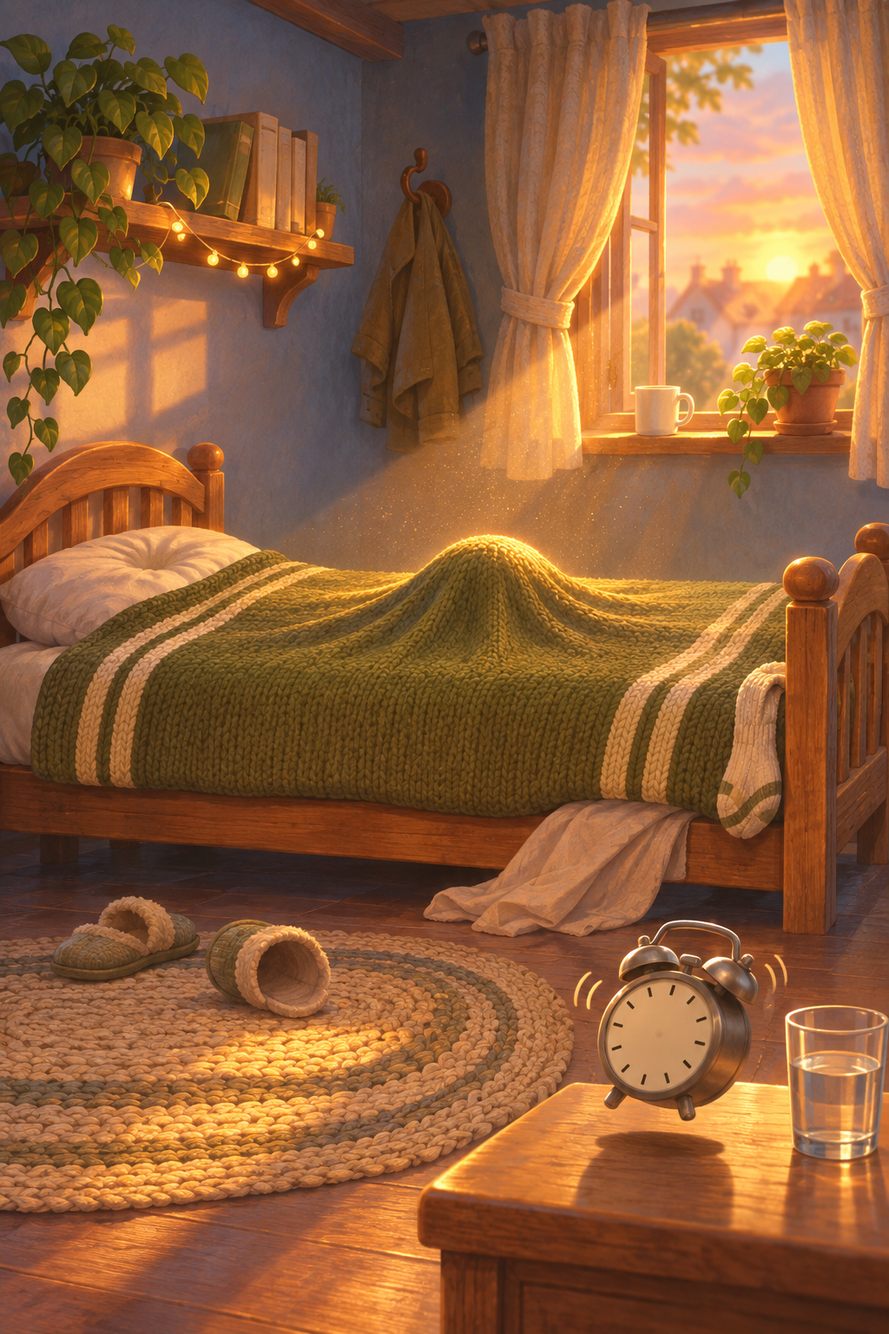
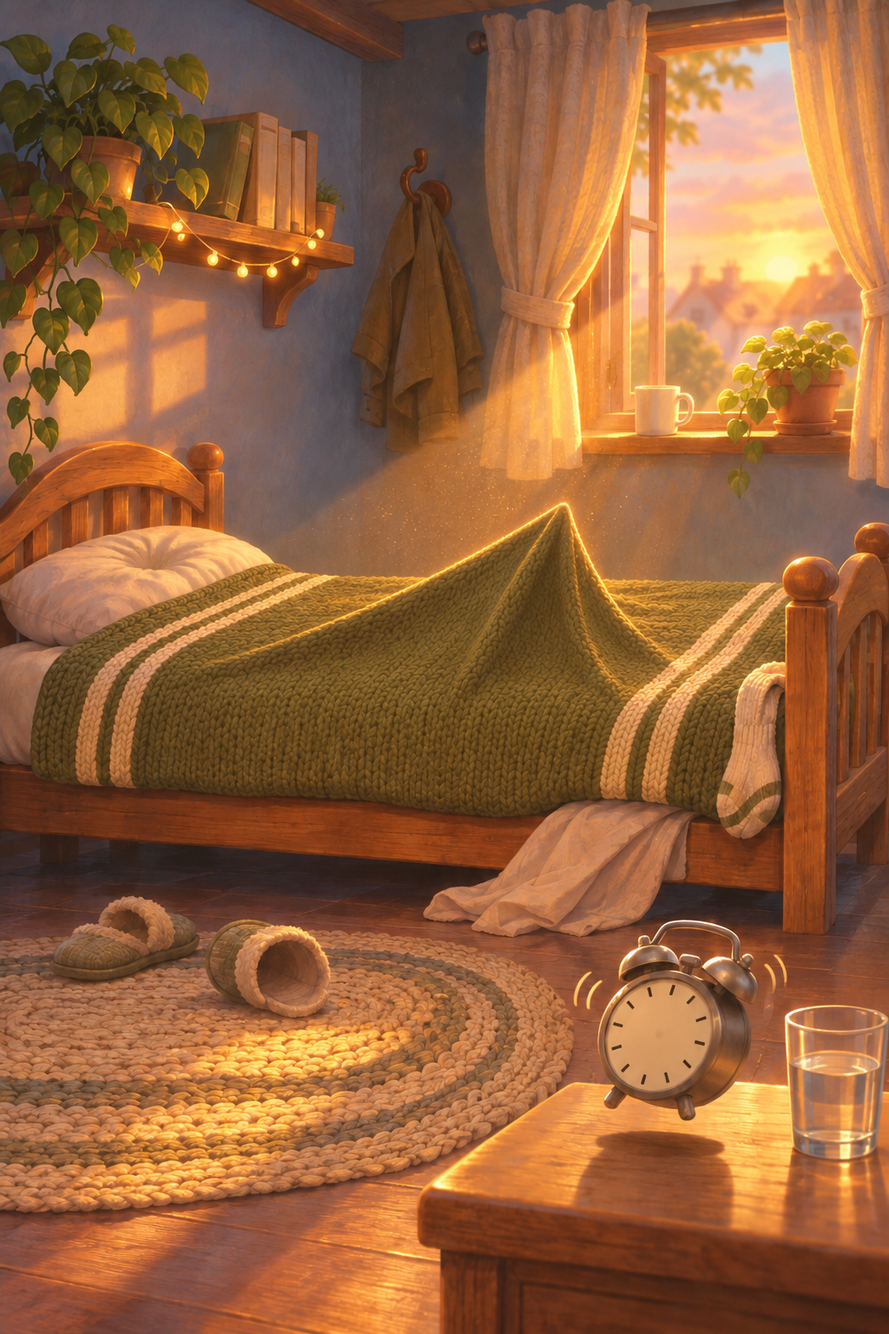
morning-wood: sharper tent bed painting, re-cut duvet, Doug placement
Claude-Session: https://claude.ai/code/session_01HD3jrKsXobS8b9SrtDG3CR

diff --git a/videos/morning-wood/scene.js b/videos/morning-wood/scene.js
@@ -1,5 +1,5 @@
 // GENERATED by tools/make-scene.js from beats.json: do not edit by hand (edit beats.json and re-run).
-window.BEATS = {"slug":"morning-wood","title":"Why do men wake up with morning wood?","searchPhrase":"why do men wake up with morning wood","banner":"THE HECK?","captionChunk":3,"tail":1,"lights":{"night":{"key":[16761466,1.7,[10,5,4]],"hemi":[8161504,4864602,0.95],"front":[11580671,0.75],"shadow":[1052730,0.42]},"morning":{"key":[16769200,2.2,[-10,6,4]],"hemi":[16772300,9067088,0.95],"front":[16774368,0.9],"shadow":[5909050,0.4]}},"plates":{"M00":{"img":"M00_bed_morning_tent.png","hz":0.45,"camH":1.6,"light":"morning"},"M01":{"img":"M01_dream_sky_night.png","hz":0.5,"light":"night"},"M02":{"img":"M02_sleep_lab_1972.png","hz":0.45,"light":"interior"},"M03":{"img":"M03_toddler_room.png","hz":0.45,"light":"night"},"M04":{"img":"M04_hose_clamped_day.png","hz":0.45,"light":"day"},"M05":{"img":"M05_hose_open_night.png","hz":0.45,"light":"night"},"M06":{"img":"M06_five_moons_night.png","hz":0.5,"light":"night"},"M07":{"img":"M07_clinic_desk_1980.png","hz":0.45,"light":"interior"},"M08":{"img":"M08_garage_tuneup_night.png","hz":0.45,"light":"interior"},"E":{"img":"E01_city_sunset_ending.png","camH":2,"light":"sunset"}},"props":{"P01":"P01_stamp_ring_whole.cut.png","P02":"P02_stamp_ring_torn.cut.png","DUVET":"M00_duvet.cut.png"},"cast":{"doug":{"outfit":"hoodie"}},"shots":[{"at":"hook","plate":"M00","zoom":[5,1.3],"focus":[[0.55,0.43],[0.5,0.45]]},{"at":"hook+0.55","plate":"M00","zoom":[1.3,1.5],"focus":[[0.5,0.45],[0.4,0.45]]},{"at":"card","plate":"M00","zoom":[1.5,1.75],"focus":[[0.4,0.45],[0.3,0.46]]},{"at":"kept","plate":"M00","zoom":[1.75,1.4],"focus":[[0.3,0.46],[0.42,0.46]]},{"at":"belief","plate":"M01","zoom":[1,1.35],"focus":[[0.5,0.55],[0.5,0.45]]},{"at":"bet","plate":"M01","zoom":[1.35,1.15],"focus":[[0.5,0.45],[0.55,0.5]]},{"at":"tested","plate":"M02","zoom":[1,1.4],"focus":[[0.5,0.55],[0.45,0.5]]},{"at":"watch","plate":"M02","zoom":[1.4,1.7],"focus":[[0.45,0.5],[0.35,0.62]]},{"at":"age","plate":"M03","zoom":[1,1.35],"focus":[[0.5,0.55],[0.55,0.6]]},{"at":"notdream","plate":"M03","zoom":[1.35,1.1],"focus":[[0.55,0.6],[0.5,0.5]]},{"at":"rehook","plate":"M04","zoom":[1,1.2],"focus":[[0.5,0.5],[0.5,0.46]]},{"at":"idea","plate":"M04","zoom":[1.2,1.4],"focus":[[0.5,0.46],[0.45,0.47]]},{"at":"hose","plate":"M04","zoom":[1.4,1.7],"focus":[[0.45,0.47],[0.4,0.47]]},{"at":"rem","plate":"M05","zoom":[1,1.3],"focus":[[0.5,0.5],[0.45,0.5]]},{"at":"nodis","plate":"M05","zoom":[1.3,1.1],"focus":[[0.45,0.5],[0.5,0.5]]},{"at":"count","plate":"M06","zoom":[1,1.5],"focus":[[0.5,0.45],[0.5,0.5]]},{"at":"people","plate":"M02","zoom":[1.1,1.6],"focus":[[0.5,0.5],[0.65,0.55]]},{"at":"fits","plate":"M02","zoom":[1.6,1.2],"focus":[[0.65,0.55],[0.5,0.5]]},{"at":"stamps","plate":"M07","zoom":[1,1.5],"focus":[[0.5,0.6],[0.5,0.6]]},{"at":"torn","plate":"M07","zoom":[1.5,1.9],"focus":[[0.5,0.6],[0.5,0.62]]},{"at":"results","plate":"M07","zoom":[1.9,1.2],"focus":[[0.5,0.62],[0.5,0.5]]},{"at":"oxy","plate":"M08","zoom":[1,1.5],"focus":[[0.5,0.5],[0.5,0.55]]},{"at":"mirror","plate":"M05","zoom":[1.1,1.4],"focus":[[0.5,0.5],[0.5,0.55]]},{"at":"best","plate":"M05","zoom":[1.4,1.15],"focus":[[0.5,0.55],[0.5,0.45]]},{"at":"doug","plate":"E","zoom":[1.04,1.12],"focus":[[0.5,0.53],[0.5,0.5]]},{"at":"diy","plate":"E","zoom":[1.12,1.2],"focus":[[0.5,0.5],[0.5,0.48]]},{"at":"cta","plate":"E","zoom":[1.2,1.3],"focus":[[0.5,0.48],[0.5,0.47]]}],"shakes":[["hook+0.3",0.45,0.7]],"flashes":[["hook+0.28",0.22,0.7]],"actors":[{"who":"doug","from":"hook","to":"belief","placement":{"type":"lying","ix":800,"iy":1040,"dx":-0.45,"dz":-0.9,"y":1.05,"ry":0,"sc":1.3,"tilt":-0.34},"idle":{"face":"flat","look":-0.3},"events":[{"do":"face","at":"hook","to":"card","face":"surprised"},{"do":"face","at":"kept","to":"belief","face":"worried"}]},{"who":"doug","from":"doug","placement":{"type":"stand","ix":520,"iy":1270,"ry":0.2},"idle":{"face":"smile"},"events":[{"do":"lookUp","at":"probably","dur":4},{"do":"gesture","at":"cta","to":"cta+3","gesture":"point"}]}],"helicopter":{"at":"probably","y":360,"w":520,"dur":4.2},"overlays":[{"type":"title","at":"hook","to":"card+1.2","lines":[{"text":"WHY DO MEN WAKE UP WITH","size":64,"y":250},{"text":"MORNING WOOD?","size":120,"color":"gold","y":370}]},{"type":"text","at":"card+1.2","to":"kept","text":"DOUG'S PROBLEM","size":96,"color":"gold"},{"type":"text","at":"card","to":"belief","text":"⬇ MORNING WOOD","size":90,"color":"red","y":520,"rot":-0.03},{"type":"text","at":"kept","to":"belief","text":"WORRIED","size":100,"color":"gold"},{"type":"text","at":"belief","to":"bet","text":"A SEXY DREAM?","size":110,"color":"red"},{"type":"text","at":"belief+1.6","to":"bet","text":"MOST PEOPLE SAY","size":62,"color":"gold","y":430},{"type":"text","at":"bet","to":"tested","text":"\"I BELIEVED IT TOO\"","size":70},{"type":"text","at":"tested","to":"watch","text":"1972","size":150,"color":"gold","y":290},{"type":"text","at":"watch","to":"age","text":"BOYS + SENSORS","size":90,"color":"gold"},{"type":"text","at":"age","to":"notdream","text":"AGE","size":90,"color":"gold","y":300},{"type":"counter","at":"age","to":"notdream","dur":1.2,"format":"{n} YEARS OLD","size":120,"color":"gold","start":0,"value":3},{"type":"text","at":"notdream","to":"rehook","text":"✖ NOT THE DREAM","size":90,"color":"red","y":430},{"type":"text","at":"rehook","to":"idea","text":"THEN WHAT?","size":130,"color":"gold"},{"type":"text","at":"idea","to":"hose","text":"THE CLAMP","size":130,"color":"gold"},{"type":"flow","at":"hose","to":"rem","rows":[[150,640,400,735],[160,700,400,750]],"color":"cool","width":13,"a":0.3},{"type":"text","at":"hose","to":"rem","text":"CLAMP SHUT = NO BLOOD","size":70,"color":"red","y":430},{"type":"text","at":"rem","to":"nodis","text":"REM SLEEP","size":130,"color":"gold"},{"type":"flow","at":"rem","to":"nodis","rows":[[140,640,420,745],[420,760,850,755],[500,770,830,770]],"color":"cool","width":13},{"type":"text","at":"rem+1.8","to":"nodis","text":"CLAMP OPEN = FILLS","size":70,"color":"gold","y":430},{"type":"text","at":"nodis","to":"count","text":"NOT PROVEN","size":90,"color":"red"},{"type":"counter","at":"count","to":"people","dur":1.8,"format":"{n} A NIGHT","size":120,"color":"gold","start":0,"value":5},{"type":"text","at":"count+1.2","to":"people","text":"THE LAST ONE: YOU CATCH","size":60,"color":"gold","y":430},{"type":"bar","at":"people","to":"fits","x":300,"y":700,"len":420,"label":"REM: ABOUT 30 MIN","keys":[[0,0.05],[1.2,1]],"color":"gold"},{"type":"bar","at":"people+1.6","to":"fits","x":300,"y":800,"len":420,"label":"NOT REM: ABOUT 12 MIN","keys":[[0,0.05],[1,0.4]],"color":"red"},{"type":"text","at":"fits","to":"stamps","text":"THAT FITS","size":110,"color":"gold"},{"type":"text","at":"stamps","to":"torn","text":"1980","size":150,"color":"gold","y":290},{"type":"prop","at":"stamps","to":"torn","prop":"P01","pos":[512,880],"w":526,"pop":0.35},{"type":"prop","at":"torn","to":"oxy","prop":"P02","pos":[512,880],"w":473,"pop":0.3},{"type":"text","at":"torn","to":"results","text":"TORN = IT HAPPENED","size":80,"color":"gold","y":430},{"type":"counter","at":"results","to":"oxy","dur":1.4,"format":"{n} HEALTHY: TORN","size":80,"color":"gold","start":0,"value":22,"y":330},{"type":"text","at":"results+1.8","to":"oxy","text":"11 ✖ NOT TORN","size":90,"color":"red","y":430},{"type":"text","at":"oxy","to":"mirror","text":"BLOOD = OXYGEN","size":100,"color":"gold"},{"type":"text","at":"oxy+1.8","to":"mirror","text":"A NIGHTLY TUNE-UP?","size":70,"color":"gold","y":430},{"type":"text","at":"mirror","to":"best","text":"WHY?","size":140,"color":"gold"},{"type":"text","at":"best","to":"idk","text":"A CLAMP THAT OPENS","size":72,"color":"gold"},{"type":"text","at":"idk","to":"doug","text":"NOBODY'S SURE","size":110,"color":"red"},{"type":"text","at":"doug","to":"probably","text":"NOT A DREAM. NOT A FLAW.","size":70,"color":"gold"},{"type":"text","at":"diy","to":"cta","text":"ABOUT 4 TONIGHT","size":100,"color":"gold"},{"type":"text","at":"cta","to":"follow","text":"SEND THIS TO SOMEONE","size":80,"color":"gold"},{"type":"text","at":"follow","to":"follow+4","text":"FOLLOW","size":110,"color":"gold"},{"type":"prop","at":"hook","to":"belief","prop":"DUVET","pos":[470.5,781.5],"w":869,"pop":0.01},{"type":"text","at":"best","to":"idk","text":"IN REM SLEEP","size":90,"color":"gold","y":430},{"type":"text","at":"follow","to":"follow+4","text":"WATCH THE YAWN VIDEO NEXT","size":50,"color":"gold","y":430},{"type":"text","at":"hose+1.6","to":"rem","text":"A BRAIN CHEMICAL","size":70,"color":"white","y":520},{"type":"text","at":"stamps+2.0","to":"torn","text":"A RING OF 4 STAMPS","size":80,"color":"white","y":430}],"recurring":["THE GARDEN HOSE: a thick, bright leaf-green rubber hose with yellow brass fittings, coiled in a loose loop; THE CLAMP: a chunky silver steel pinch-clamp with a big red handle, clamped across the hose near the middle, identical in every image it appears in (the exact hose and clamp from M04_hose_clamped_day.png; in M05 the clamp is open, the hose is full and swollen with water)"],"images":[{"file":"M00_bed_morning_tent.png","kind":"background","idea":"the hook + Doug's problem: he wakes with a visible tent in the blanket","shot":"eye-level 3/4 view of ONE single bed seen from the side and slightly from the foot, the bed running from the left (pillow) to the right (foot), 35mm lens feel, horizon about 45% from the top, portrait 2:3.","place":"Doug's bedroom at sunrise, the same cozy world as the night bedroom but now in strong golden morning light: \"the morning after\". Funny, warm, a little embarrassing. The bed is EMPTY of people: the pillow is flat with a head-shaped dent, the duvet is pulled up as if someone were under it.","hero":"a thick olive-green duvet with two cream stripes (the same blanket as the green bed in the night bedroom) covering the whole bed up to the pillow, with ONE clear, rounded, cartoon TENT-shaped bump pushing up the duvet near the middle of the bed, about as big as a loaf of bread, with soft fabric folds radiating from it and a sunbeam hitting it. It is the clearly the biggest, brightest thing in the image. Cartoon, wholesome and silly, nothing explicit, no body shapes visible, only the bump in the blanket.","foreground":"the corner of a nightstand cropped at the bottom right with a round alarm clock ringing (little vibration lines and tick marks only, no numbers) and a glass of water.","midground":"the wooden bed frame with the flat pillow at the left, a rumpled sheet corner, a pair of slippers on the floor, a woven rug.","background":"a big window with open curtains and a golden sunrise over rooftops, a bookshelf with plants and string lights, a coat on a hook.","dressing":"dust motes in the sunbeams, a stack of books, a mug, a plant on the sill, wood floor with warm reflections.","story":"the alarm clock is jumping off the nightstand, a sock hanging off the bed corner, one slipper kicked over.","light":"strong golden sunrise from the window on the right, long warm shadows, cool blue shadows in the corners, glowing dust.","palette":"olive green and honey wood with one gold sunrise accent.","texture":"knit duvet weave with soft folds, wood grain, glass, brushed metal.","staging":"keep the bed lying flat and clear along the middle band so a character can lie on it, with the pillow at the left. Keep the band at 60-72% height calm. The bump is in the middle third of the bed length."},{"file":"M01_dream_sky_night.png","kind":"background","idea":"what most people say: a dream","shot":"low-angle wide view up at a dreamy night sky over rooftops, 24mm lens feel, horizon about 38% from the top, portrait 2:3.","place":"a surreal, cozy dream sky over a sleeping town at night: \"the dream everybody blames\". Soft, glowing, a little silly.","hero":"a huge heart-shaped cloud glowing pink and violet in the middle of the sky, with a ring of sparkles around it (pictogram only).","foreground":"chimney tops and a tiled roof edge cropped at the bottom corners with soft snow on them.","midground":"a flock of puffy cartoon clouds in pink and violet, floating stars, a crescent moon with a sleepy closed-eye curve, a hot-air balloon far away.","background":"a faraway town of tiny lit windows, a hill with a windmill, layers of blue haze.","dressing":"shooting stars, glowing dust, a few paper lanterns drifting up, wispy aurora ribbons.","story":"one lone slipper floating among the clouds, a tiny kite caught in a chimney.","light":"soft pink-violet glow from the heart cloud, cool moonlight rim on the clouds, deep blue night (never black).","palette":"deep indigo and violet with one pink-gold accent.","texture":"painterly cloud brushwork, paper grain, glowing gradients.","staging":"Keep the center clear for overlays and the band at 60-72% height calm."},{"file":"M02_sleep_lab_1972.png","kind":"background","idea":"the 1972 sleep study (reused for the evidence)","shot":"eye-level wide view into a 1970s sleep laboratory, 28mm lens feel, horizon about 45% from the top, portrait 2:3.","place":"a quiet 1970s university sleep laboratory at night, warm and nerdy: \"where they watched people sleep all night\". No one inside.","hero":"a single narrow bed with a plain white pillow and a crumpled blanket in the middle, with soft colored wires hanging from a little headboard box.","foreground":"the corner of a metal desk cropped at the bottom left with a mug, a notebook and a tangle of wires.","midground":"a tall chart recorder machine on a cart with a long loop of paper tape curling out covered in wavy ink lines (no numbers), two big reel-to-reel tape machines, a wall of dials and knobs.","background":"a big dark observation window with a green-tinted reflection, wood-paneled walls, a round wall clock (tick marks only), a poster of a plain brain outline.","dressing":"a thermos, a desk lamp, coiled cables, orange and brown 1970s curtains, a stool.","story":"a half-eaten sandwich on a plate, a paper cup with a pencil in it, a wall clock shaped like a crescent moon.","light":"warm orange from a desk lamp on the left, cool green glow from the monitors, colored shadows in blue.","palette":"1970s orange, brown and teal, with one gold accent.","texture":"wood paneling, brushed metal, paper tape, plastic dials.","staging":"Keep the center clear for overlays and the band at 60-72% height calm."},{"file":"M03_toddler_room.png","kind":"background","idea":"boys as young as three","shot":"eye-level wide view of a small child's bedroom at night, 28mm lens feel, horizon about 45% from the top, portrait 2:3.","place":"a tiny, cozy toddler bedroom at night: \"a three-year-old's room\". Warm and sweet.","hero":"a small low bed with a dinosaur blanket and a teddy bear on the pillow, in the middle of the room.","foreground":"the corner of a toy chest cropped at the bottom right with wooden blocks and a toy truck.","midground":"a rug with a road map pattern, a rocking horse, a bookshelf with big picture books, a stuffed giraffe.","background":"a night-light shaped like a moon on the wall, a window with stars, wallpaper with tiny rockets.","dressing":"a mobile of paper stars, crayon drawings (scribbles only), a stack of alphabet blocks (blank), a pair of tiny slippers.","story":"one block tower knocked over, a sippy cup on the nightstand.","light":"soft warm yellow from the moon night-light, cool blue from the window, colored shadows in purple.","palette":"warm cream and sky blue with one orange accent.","texture":"knit blanket weave, painted wood, felt, plush fur.","staging":"Keep the center clear for overlays and the band at 60-72% height calm."},{"file":"M04_hose_clamped_day.png","kind":"background","idea":"the best idea: a clamp on a hose (clamp SHUT)","shot":"eye-level wide view across a sunny backyard garden, 28mm lens feel, horizon about 45% from the top, portrait 2:3.","place":"a sunny backyard vegetable garden in the afternoon: \"a garden hose with a clamp on it\". Fresh and friendly.","hero":"a thick bright leaf-green garden hose running across the lawn from a brass tap, with a chunky silver pinch-clamp with a big red handle clamped tight across it in the middle; the hose on the tap side is swollen and the far side is flat and empty.","foreground":"tall tomato plants and a wooden fence post cropped at the left, a watering can at the bottom right.","midground":"a vegetable bed with cabbages and sunflowers, a wheelbarrow, a coiled spare hose, a brass tap on a brick wall.","background":"a wooden fence, a little shed, tall trees, a blue sky with soft clouds.","dressing":"garden gloves, a trowel, a straw hat on a post, a bucket.","story":"one wilting plant at the far end of the hose (to show nothing is flowing), a dewdrop on the clamp handle.","light":"strong warm sun from the upper left, long soft shadows, bright green and gold, colored shadows in blue-violet.","palette":"leaf green and sky blue with one red accent (the clamp handle).","texture":"rubber, brass, wood grain, leaf veins, brick.","staging":"Keep the center clear for overlays and the band at 60-72% height calm."},{"file":"M05_hose_open_night.png","kind":"background","idea":"the clamp OPENS in REM sleep (same garden at night)","shot":"same camera angle as M04_hose_clamped_day.png, the same backyard garden at NIGHT, portrait 2:3.","place":"the exact same garden as M04 at night under a huge glowing moon: \"the clamp opens\". Dreamy, magical.","hero":"the exact hose and the exact silver clamp with the red handle from M04_hose_clamped_day.png, but the clamp is now OPEN and swung to the side; the whole hose is full and swollen with water and gently glowing, sparkles of water jumping along it.","foreground":"the same tomato plants and fence post at the left, the same watering can at the bottom right, now silvery in the moonlight.","midground":"the same vegetable bed with the plants now perked up and fresh, the same wheelbarrow, the same brass tap.","background":"a giant moon, glowing dust, a night sky with a swirl of stars and a faint ring of REM-style swirls (pictogram only), the same shed and trees in deep blue.","dressing":"glowing dew drops, drifting glowing dust motes, a stone birdbath, moonlit mist.","story":"the far-end plant is now standing up straight and green, a glowing dewdrop on the open clamp handle.","light":"cool silver-blue moonlight from the upper right, warm glow from the water in the hose, colored shadows in violet.","palette":"deep blue and silver with one warm gold accent (the glowing water).","texture":"rubber, brass, wet leaves, moonlit mist.","staging":"Keep the center clear for overlays and the band at 60-72% height calm."},{"file":"M06_five_moons_night.png","kind":"background","idea":"three to five times a night","shot":"low-angle wide view of a night sky, 24mm lens feel, horizon about 30% from the top, portrait 2:3.","place":"a quiet night sky over a sleeping bedroom window ledge: \"a whole night, with five goes\". Calm and a little funny.","hero":"five glowing round moons hanging in a row across the sky like lanterns on a string, evenly spaced from left to right, the fifth one a little brighter, near a faint orange glow of dawn on the horizon.","foreground":"a window ledge with a blue curtain cropped at the bottom left and a sleeping potted cactus.","midground":"a long string of fairy lights holding the five moons, soft clouds, a few stars, a calm lake below reflecting the moons.","background":"a faraway hill with a tiny house, layers of blue haze, a hint of sunrise on the far edge.","dressing":"sparkles, a drifting paper plane, a bare tree branch with a hanging lantern.","story":"the fifth moon has a tiny alarm bell hanging from it.","light":"cool silver moonlight, a warm orange line of dawn at the horizon, colored shadows in violet.","palette":"deep navy and silver with one orange dawn accent.","texture":"painterly sky, glowing gradients, soft grain.","staging":"Keep the center clear for overlays and the band at 60-72% height calm."},{"file":"M07_clinic_desk_1980.png","kind":"background","idea":"the 1980 postage stamp test","shot":"high-angle view down at a doctor's desk, 35mm lens feel, portrait 2:3.","place":"a 1980 doctor's clinic desk in the morning: \"a very strange test\". Warm, retro, nerdy. No one present.","hero":"a clear open space in the middle of a wooden desk with a green blotter where small objects will be placed, with a roll of postage stamps and a pair of scissors lying beside it (blank stamps with simple pictogram flowers, no numbers).","foreground":"a stack of folders and a brass desk lamp cropped at the top left, a coffee mug at the bottom right.","midground":"a typewriter, a rolodex, a framed diploma (blank), a retro telephone with a curly cord.","background":"wood-paneled wall, a window with venetian blinds and morning light, a plant.","dressing":"paper clips, a stapler, a pencil cup, a tidy desk, sticky notes (blank).","story":"a sticky note with a simple pictogram star, a half-solved crossword (no letters).","light":"warm golden morning light through the blinds from the right, colored shadows in teal.","palette":"1980 mustard, brown and teal, with one gold accent.","texture":"wood grain, paper, brass, felt blotter.","staging":"Keep the center clear for overlays and the band at 60-72% height calm."},{"file":"M08_garage_tuneup_night.png","kind":"background","idea":"a nightly tune-up (blood carries oxygen)","shot":"eye-level wide view into a cozy garage workshop at night, 28mm lens feel, horizon about 45% from the top, portrait 2:3.","place":"a friendly old garage at night where a car is getting its tune-up: \"a nightly tune-up\". Warm, busy, nobody there.","hero":"a round, cartoon-shaped vintage car with its hood open, up on a car lift, glowing warm from inside the engine, with sparkles of gold bubbles floating up from the engine.","foreground":"a rolling tool chest cropped at the bottom left with wrenches and an oil can.","midground":"a workbench with tools on a pegboard, a tire stack, a rolling creeper, a parts shelf, a little radio.","background":"garage doors with night-blue windows, a wall calendar (blank), a neon sign in the window with the exact words \"TUNE-UP\" (the only text in the image).","dressing":"a hanging shop light, oil stains, tools silhouettes on the pegboard outline, a coffee thermos.","story":"a rubber duck on the dashboard, a tiny plant growing on the workbench.","light":"warm orange from the shop lights, cool blue from the doors, gold sparkles glowing, colored shadows in blue.","palette":"warm orange and navy with one gold accent.","texture":"metal, rubber, grease, brushed steel, pegboard.","staging":"Keep the center clear for overlays and the band at 60-72% height calm."},{"file":"P01_stamp_ring_whole.png","kind":"prop","idea":"the stamp ring, intact","brief":"A strip of four connected postage stamps with perforated edges, bent into a ring (a closed loop) standing on its end, each stamp showing a simple pictogram flower, no text, no numbers."},{"file":"P02_stamp_ring_torn.png","kind":"prop","idea":"the stamp ring, torn","brief":"The same strip of four postage stamps with perforated edges as a ring, but now torn apart between the second and third stamp, the two pieces lying a little apart with ragged torn edges, each stamp showing a simple pictogram flower, no text, no numbers."}]};
+window.BEATS = {"slug":"morning-wood","title":"Why do men wake up with morning wood?","searchPhrase":"why do men wake up with morning wood","banner":"THE HECK?","captionChunk":3,"tail":1,"lights":{"night":{"key":[16761466,1.7,[10,5,4]],"hemi":[8161504,4864602,0.95],"front":[11580671,0.75],"shadow":[1052730,0.42]},"morning":{"key":[16769200,2.2,[-10,6,4]],"hemi":[16772300,9067088,0.95],"front":[16774368,0.9],"shadow":[5909050,0.4]}},"plates":{"M00":{"img":"M00_bed_morning_tent.png","hz":0.45,"camH":1.6,"light":"morning"},"M01":{"img":"M01_dream_sky_night.png","hz":0.5,"light":"night"},"M02":{"img":"M02_sleep_lab_1972.png","hz":0.45,"light":"interior"},"M03":{"img":"M03_toddler_room.png","hz":0.45,"light":"night"},"M04":{"img":"M04_hose_clamped_day.png","hz":0.45,"light":"day"},"M05":{"img":"M05_hose_open_night.png","hz":0.45,"light":"night"},"M06":{"img":"M06_five_moons_night.png","hz":0.5,"light":"night"},"M07":{"img":"M07_clinic_desk_1980.png","hz":0.45,"light":"interior"},"M08":{"img":"M08_garage_tuneup_night.png","hz":0.45,"light":"interior"},"E":{"img":"E01_city_sunset_ending.png","camH":2,"light":"sunset"}},"props":{"P01":"P01_stamp_ring_whole.cut.png","P02":"P02_stamp_ring_torn.cut.png","DUVET":"M00_duvet.cut.png"},"cast":{"doug":{"outfit":"hoodie"}},"shots":[{"at":"hook","plate":"M00","zoom":[5,1.3],"focus":[[0.62,0.4],[0.5,0.45]]},{"at":"hook+0.55","plate":"M00","zoom":[1.3,1.5],"focus":[[0.5,0.45],[0.4,0.45]]},{"at":"card","plate":"M00","zoom":[1.5,1.75],"focus":[[0.4,0.45],[0.3,0.46]]},{"at":"kept","plate":"M00","zoom":[1.75,1.4],"focus":[[0.3,0.46],[0.42,0.46]]},{"at":"belief","plate":"M01","zoom":[1,1.35],"focus":[[0.5,0.55],[0.5,0.45]]},{"at":"bet","plate":"M01","zoom":[1.35,1.15],"focus":[[0.5,0.45],[0.55,0.5]]},{"at":"tested","plate":"M02","zoom":[1,1.4],"focus":[[0.5,0.55],[0.45,0.5]]},{"at":"watch","plate":"M02","zoom":[1.4,1.7],"focus":[[0.45,0.5],[0.35,0.62]]},{"at":"age","plate":"M03","zoom":[1,1.35],"focus":[[0.5,0.55],[0.55,0.6]]},{"at":"notdream","plate":"M03","zoom":[1.35,1.1],"focus":[[0.55,0.6],[0.5,0.5]]},{"at":"rehook","plate":"M04","zoom":[1,1.2],"focus":[[0.5,0.5],[0.5,0.46]]},{"at":"idea","plate":"M04","zoom":[1.2,1.4],"focus":[[0.5,0.46],[0.45,0.47]]},{"at":"hose","plate":"M04","zoom":[1.4,1.7],"focus":[[0.45,0.47],[0.4,0.47]]},{"at":"rem","plate":"M05","zoom":[1,1.3],"focus":[[0.5,0.5],[0.45,0.5]]},{"at":"nodis","plate":"M05","zoom":[1.3,1.1],"focus":[[0.45,0.5],[0.5,0.5]]},{"at":"count","plate":"M06","zoom":[1,1.5],"focus":[[0.5,0.45],[0.5,0.5]]},{"at":"people","plate":"M02","zoom":[1.1,1.6],"focus":[[0.5,0.5],[0.65,0.55]]},{"at":"fits","plate":"M02","zoom":[1.6,1.2],"focus":[[0.65,0.55],[0.5,0.5]]},{"at":"stamps","plate":"M07","zoom":[1,1.5],"focus":[[0.5,0.6],[0.5,0.6]]},{"at":"torn","plate":"M07","zoom":[1.5,1.9],"focus":[[0.5,0.6],[0.5,0.62]]},{"at":"results","plate":"M07","zoom":[1.9,1.2],"focus":[[0.5,0.62],[0.5,0.5]]},{"at":"oxy","plate":"M08","zoom":[1,1.5],"focus":[[0.5,0.5],[0.5,0.55]]},{"at":"mirror","plate":"M05","zoom":[1.1,1.4],"focus":[[0.5,0.5],[0.5,0.55]]},{"at":"best","plate":"M05","zoom":[1.4,1.15],"focus":[[0.5,0.55],[0.5,0.45]]},{"at":"doug","plate":"E","zoom":[1.04,1.12],"focus":[[0.5,0.53],[0.5,0.5]]},{"at":"diy","plate":"E","zoom":[1.12,1.2],"focus":[[0.5,0.5],[0.5,0.48]]},{"at":"cta","plate":"E","zoom":[1.2,1.3],"focus":[[0.5,0.48],[0.5,0.47]]}],"shakes":[["hook+0.3",0.45,0.7]],"flashes":[["hook+0.28",0.22,0.7]],"actors":[{"who":"doug","from":"hook","to":"belief","placement":{"type":"lying","ix":800,"iy":1040,"dx":-0.45,"dz":-0.9,"y":1,"ry":0,"sc":1.3,"tilt":-0.4},"idle":{"face":"flat","look":-0.3},"events":[{"do":"face","at":"hook","to":"card","face":"surprised"},{"do":"face","at":"kept","to":"belief","face":"worried"}]},{"who":"doug","from":"doug","placement":{"type":"stand","ix":520,"iy":1270,"ry":0.2},"idle":{"face":"smile"},"events":[{"do":"lookUp","at":"probably","dur":4},{"do":"gesture","at":"cta","to":"cta+3","gesture":"point"}]}],"helicopter":{"at":"probably","y":360,"w":520,"dur":4.2},"overlays":[{"type":"title","at":"hook","to":"card+1.2","lines":[{"text":"WHY DO MEN WAKE UP WITH","size":64,"y":250},{"text":"MORNING WOOD?","size":120,"color":"gold","y":370}]},{"type":"text","at":"card+1.2","to":"kept","text":"DOUG'S PROBLEM","size":96,"color":"gold"},{"type":"text","at":"card","to":"belief","text":"⬇ MORNING WOOD","size":90,"color":"red","y":520,"rot":-0.03},{"type":"text","at":"kept","to":"belief","text":"WORRIED","size":100,"color":"gold"},{"type":"text","at":"belief","to":"bet","text":"A SEXY DREAM?","size":110,"color":"red"},{"type":"text","at":"belief+1.6","to":"bet","text":"MOST PEOPLE SAY","size":62,"color":"gold","y":430},{"type":"text","at":"bet","to":"tested","text":"\"I BELIEVED IT TOO\"","size":70},{"type":"text","at":"tested","to":"watch","text":"1972","size":150,"color":"gold","y":290},{"type":"text","at":"watch","to":"age","text":"BOYS + SENSORS","size":90,"color":"gold"},{"type":"text","at":"age","to":"notdream","text":"AGE","size":90,"color":"gold","y":300},{"type":"counter","at":"age","to":"notdream","dur":1.2,"format":"{n} YEARS OLD","size":120,"color":"gold","start":0,"value":3},{"type":"text","at":"notdream","to":"rehook","text":"✖ NOT THE DREAM","size":90,"color":"red","y":430},{"type":"text","at":"rehook","to":"idea","text":"THEN WHAT?","size":130,"color":"gold"},{"type":"text","at":"idea","to":"hose","text":"THE CLAMP","size":130,"color":"gold"},{"type":"flow","at":"hose","to":"rem","rows":[[150,640,400,735],[160,700,400,750]],"color":"cool","width":13,"a":0.3},{"type":"text","at":"hose","to":"rem","text":"CLAMP SHUT = NO BLOOD","size":70,"color":"red","y":430},{"type":"text","at":"rem","to":"nodis","text":"REM SLEEP","size":130,"color":"gold"},{"type":"flow","at":"rem","to":"nodis","rows":[[140,640,420,745],[420,760,850,755],[500,770,830,770]],"color":"cool","width":13},{"type":"text","at":"rem+1.8","to":"nodis","text":"CLAMP OPEN = FILLS","size":70,"color":"gold","y":430},{"type":"text","at":"nodis","to":"count","text":"NOT PROVEN","size":90,"color":"red"},{"type":"counter","at":"count","to":"people","dur":1.8,"format":"{n} A NIGHT","size":120,"color":"gold","start":0,"value":5},{"type":"text","at":"count+1.2","to":"people","text":"THE LAST ONE: YOU CATCH","size":60,"color":"gold","y":430},{"type":"bar","at":"people","to":"fits","x":300,"y":700,"len":420,"label":"REM: ABOUT 30 MIN","keys":[[0,0.05],[1.2,1]],"color":"gold"},{"type":"bar","at":"people+1.6","to":"fits","x":300,"y":800,"len":420,"label":"NOT REM: ABOUT 12 MIN","keys":[[0,0.05],[1,0.4]],"color":"red"},{"type":"text","at":"fits","to":"stamps","text":"THAT FITS","size":110,"color":"gold"},{"type":"text","at":"stamps","to":"torn","text":"1980","size":150,"color":"gold","y":290},{"type":"prop","at":"stamps","to":"torn","prop":"P01","pos":[512,880],"w":526,"pop":0.35},{"type":"prop","at":"torn","to":"oxy","prop":"P02","pos":[512,880],"w":473,"pop":0.3},{"type":"text","at":"torn","to":"results","text":"TORN = IT HAPPENED","size":80,"color":"gold","y":430},{"type":"counter","at":"results","to":"oxy","dur":1.4,"format":"{n} HEALTHY: TORN","size":80,"color":"gold","start":0,"value":22,"y":330},{"type":"text","at":"results+1.8","to":"oxy","text":"11 ✖ NOT TORN","size":90,"color":"red","y":430},{"type":"text","at":"oxy","to":"mirror","text":"BLOOD = OXYGEN","size":100,"color":"gold"},{"type":"text","at":"oxy+1.8","to":"mirror","text":"A NIGHTLY TUNE-UP?","size":70,"color":"gold","y":430},{"type":"text","at":"mirror","to":"best","text":"WHY?","size":140,"color":"gold"},{"type":"text","at":"best","to":"idk","text":"A CLAMP THAT OPENS","size":72,"color":"gold"},{"type":"text","at":"idk","to":"doug","text":"NOBODY'S SURE","size":110,"color":"red"},{"type":"text","at":"doug","to":"probably","text":"NOT A DREAM. NOT A FLAW.","size":70,"color":"gold"},{"type":"text","at":"diy","to":"cta","text":"ABOUT 4 TONIGHT","size":100,"color":"gold"},{"type":"text","at":"cta","to":"follow","text":"SEND THIS TO SOMEONE","size":80,"color":"gold"},{"type":"text","at":"follow","to":"follow+4","text":"FOLLOW","size":110,"color":"gold"},{"type":"prop","at":"hook","to":"belief","prop":"DUVET","pos":[470.5,764.5],"w":869,"pop":0.01},{"type":"text","at":"best","to":"idk","text":"IN REM SLEEP","size":90,"color":"gold","y":430},{"type":"text","at":"follow","to":"follow+4","text":"WATCH THE YAWN VIDEO NEXT","size":50,"color":"gold","y":430},{"type":"text","at":"hose+1.6","to":"rem","text":"A BRAIN CHEMICAL","size":70,"color":"white","y":520},{"type":"text","at":"stamps+2.0","to":"torn","text":"A RING OF 4 STAMPS","size":80,"color":"white","y":430}],"recurring":["THE GARDEN HOSE: a thick, bright leaf-green rubber hose with yellow brass fittings, coiled in a loose loop; THE CLAMP: a chunky silver steel pinch-clamp with a big red handle, clamped across the hose near the middle, identical in every image it appears in (the exact hose and clamp from M04_hose_clamped_day.png; in M05 the clamp is open, the hose is full and swollen with water)"],"images":[{"file":"M00_bed_morning_tent.png","kind":"background","idea":"the hook + Doug's problem: he wakes with a visible tent in the blanket","shot":"eye-level 3/4 view of ONE single bed seen from the side and slightly from the foot, the bed running from the left (pillow) to the right (foot), 35mm lens feel, horizon about 45% from the top, portrait 2:3.","place":"Doug's bedroom at sunrise, the same cozy world as the night bedroom but now in strong golden morning light: \"the morning after\". Funny, warm, a little embarrassing. The bed is EMPTY of people: the pillow is flat with a head-shaped dent, the duvet is pulled up as if someone were under it.","hero":"a thick olive-green duvet with two cream stripes (the same blanket as the green bed in the night bedroom) covering the whole bed up to the pillow, with ONE clear, rounded, cartoon TENT-shaped bump pushing up the duvet near the middle of the bed, about as big as a loaf of bread, with soft fabric folds radiating from it and a sunbeam hitting it. It is the clearly the biggest, brightest thing in the image. Cartoon, wholesome and silly, nothing explicit, no body shapes visible, only the bump in the blanket.","foreground":"the corner of a nightstand cropped at the bottom right with a round alarm clock ringing (little vibration lines and tick marks only, no numbers) and a glass of water.","midground":"the wooden bed frame with the flat pillow at the left, a rumpled sheet corner, a pair of slippers on the floor, a woven rug.","background":"a big window with open curtains and a golden sunrise over rooftops, a bookshelf with plants and string lights, a coat on a hook.","dressing":"dust motes in the sunbeams, a stack of books, a mug, a plant on the sill, wood floor with warm reflections.","story":"the alarm clock is jumping off the nightstand, a sock hanging off the bed corner, one slipper kicked over.","light":"strong golden sunrise from the window on the right, long warm shadows, cool blue shadows in the corners, glowing dust.","palette":"olive green and honey wood with one gold sunrise accent.","texture":"knit duvet weave with soft folds, wood grain, glass, brushed metal.","staging":"keep the bed lying flat and clear along the middle band so a character can lie on it, with the pillow at the left. Keep the band at 60-72% height calm. The bump is in the middle third of the bed length."},{"file":"M01_dream_sky_night.png","kind":"background","idea":"what most people say: a dream","shot":"low-angle wide view up at a dreamy night sky over rooftops, 24mm lens feel, horizon about 38% from the top, portrait 2:3.","place":"a surreal, cozy dream sky over a sleeping town at night: \"the dream everybody blames\". Soft, glowing, a little silly.","hero":"a huge heart-shaped cloud glowing pink and violet in the middle of the sky, with a ring of sparkles around it (pictogram only).","foreground":"chimney tops and a tiled roof edge cropped at the bottom corners with soft snow on them.","midground":"a flock of puffy cartoon clouds in pink and violet, floating stars, a crescent moon with a sleepy closed-eye curve, a hot-air balloon far away.","background":"a faraway town of tiny lit windows, a hill with a windmill, layers of blue haze.","dressing":"shooting stars, glowing dust, a few paper lanterns drifting up, wispy aurora ribbons.","story":"one lone slipper floating among the clouds, a tiny kite caught in a chimney.","light":"soft pink-violet glow from the heart cloud, cool moonlight rim on the clouds, deep blue night (never black).","palette":"deep indigo and violet with one pink-gold accent.","texture":"painterly cloud brushwork, paper grain, glowing gradients.","staging":"Keep the center clear for overlays and the band at 60-72% height calm."},{"file":"M02_sleep_lab_1972.png","kind":"background","idea":"the 1972 sleep study (reused for the evidence)","shot":"eye-level wide view into a 1970s sleep laboratory, 28mm lens feel, horizon about 45% from the top, portrait 2:3.","place":"a quiet 1970s university sleep laboratory at night, warm and nerdy: \"where they watched people sleep all night\". No one inside.","hero":"a single narrow bed with a plain white pillow and a crumpled blanket in the middle, with soft colored wires hanging from a little headboard box.","foreground":"the corner of a metal desk cropped at the bottom left with a mug, a notebook and a tangle of wires.","midground":"a tall chart recorder machine on a cart with a long loop of paper tape curling out covered in wavy ink lines (no numbers), two big reel-to-reel tape machines, a wall of dials and knobs.","background":"a big dark observation window with a green-tinted reflection, wood-paneled walls, a round wall clock (tick marks only), a poster of a plain brain outline.","dressing":"a thermos, a desk lamp, coiled cables, orange and brown 1970s curtains, a stool.","story":"a half-eaten sandwich on a plate, a paper cup with a pencil in it, a wall clock shaped like a crescent moon.","light":"warm orange from a desk lamp on the left, cool green glow from the monitors, colored shadows in blue.","palette":"1970s orange, brown and teal, with one gold accent.","texture":"wood paneling, brushed metal, paper tape, plastic dials.","staging":"Keep the center clear for overlays and the band at 60-72% height calm."},{"file":"M03_toddler_room.png","kind":"background","idea":"boys as young as three","shot":"eye-level wide view of a small child's bedroom at night, 28mm lens feel, horizon about 45% from the top, portrait 2:3.","place":"a tiny, cozy toddler bedroom at night: \"a three-year-old's room\". Warm and sweet.","hero":"a small low bed with a dinosaur blanket and a teddy bear on the pillow, in the middle of the room.","foreground":"the corner of a toy chest cropped at the bottom right with wooden blocks and a toy truck.","midground":"a rug with a road map pattern, a rocking horse, a bookshelf with big picture books, a stuffed giraffe.","background":"a night-light shaped like a moon on the wall, a window with stars, wallpaper with tiny rockets.","dressing":"a mobile of paper stars, crayon drawings (scribbles only), a stack of alphabet blocks (blank), a pair of tiny slippers.","story":"one block tower knocked over, a sippy cup on the nightstand.","light":"soft warm yellow from the moon night-light, cool blue from the window, colored shadows in purple.","palette":"warm cream and sky blue with one orange accent.","texture":"knit blanket weave, painted wood, felt, plush fur.","staging":"Keep the center clear for overlays and the band at 60-72% height calm."},{"file":"M04_hose_clamped_day.png","kind":"background","idea":"the best idea: a clamp on a hose (clamp SHUT)","shot":"eye-level wide view across a sunny backyard garden, 28mm lens feel, horizon about 45% from the top, portrait 2:3.","place":"a sunny backyard vegetable garden in the afternoon: \"a garden hose with a clamp on it\". Fresh and friendly.","hero":"a thick bright leaf-green garden hose running across the lawn from a brass tap, with a chunky silver pinch-clamp with a big red handle clamped tight across it in the middle; the hose on the tap side is swollen and the far side is flat and empty.","foreground":"tall tomato plants and a wooden fence post cropped at the left, a watering can at the bottom right.","midground":"a vegetable bed with cabbages and sunflowers, a wheelbarrow, a coiled spare hose, a brass tap on a brick wall.","background":"a wooden fence, a little shed, tall trees, a blue sky with soft clouds.","dressing":"garden gloves, a trowel, a straw hat on a post, a bucket.","story":"one wilting plant at the far end of the hose (to show nothing is flowing), a dewdrop on the clamp handle.","light":"strong warm sun from the upper left, long soft shadows, bright green and gold, colored shadows in blue-violet.","palette":"leaf green and sky blue with one red accent (the clamp handle).","texture":"rubber, brass, wood grain, leaf veins, brick.","staging":"Keep the center clear for overlays and the band at 60-72% height calm."},{"file":"M05_hose_open_night.png","kind":"background","idea":"the clamp OPENS in REM sleep (same garden at night)","shot":"same camera angle as M04_hose_clamped_day.png, the same backyard garden at NIGHT, portrait 2:3.","place":"the exact same garden as M04 at night under a huge glowing moon: \"the clamp opens\". Dreamy, magical.","hero":"the exact hose and the exact silver clamp with the red handle from M04_hose_clamped_day.png, but the clamp is now OPEN and swung to the side; the whole hose is full and swollen with water and gently glowing, sparkles of water jumping along it.","foreground":"the same tomato plants and fence post at the left, the same watering can at the bottom right, now silvery in the moonlight.","midground":"the same vegetable bed with the plants now perked up and fresh, the same wheelbarrow, the same brass tap.","background":"a giant moon, glowing dust, a night sky with a swirl of stars and a faint ring of REM-style swirls (pictogram only), the same shed and trees in deep blue.","dressing":"glowing dew drops, drifting glowing dust motes, a stone birdbath, moonlit mist.","story":"the far-end plant is now standing up straight and green, a glowing dewdrop on the open clamp handle.","light":"cool silver-blue moonlight from the upper right, warm glow from the water in the hose, colored shadows in violet.","palette":"deep blue and silver with one warm gold accent (the glowing water).","texture":"rubber, brass, wet leaves, moonlit mist.","staging":"Keep the center clear for overlays and the band at 60-72% height calm."},{"file":"M06_five_moons_night.png","kind":"background","idea":"three to five times a night","shot":"low-angle wide view of a night sky, 24mm lens feel, horizon about 30% from the top, portrait 2:3.","place":"a quiet night sky over a sleeping bedroom window ledge: \"a whole night, with five goes\". Calm and a little funny.","hero":"five glowing round moons hanging in a row across the sky like lanterns on a string, evenly spaced from left to right, the fifth one a little brighter, near a faint orange glow of dawn on the horizon.","foreground":"a window ledge with a blue curtain cropped at the bottom left and a sleeping potted cactus.","midground":"a long string of fairy lights holding the five moons, soft clouds, a few stars, a calm lake below reflecting the moons.","background":"a faraway hill with a tiny house, layers of blue haze, a hint of sunrise on the far edge.","dressing":"sparkles, a drifting paper plane, a bare tree branch with a hanging lantern.","story":"the fifth moon has a tiny alarm bell hanging from it.","light":"cool silver moonlight, a warm orange line of dawn at the horizon, colored shadows in violet.","palette":"deep navy and silver with one orange dawn accent.","texture":"painterly sky, glowing gradients, soft grain.","staging":"Keep the center clear for overlays and the band at 60-72% height calm."},{"file":"M07_clinic_desk_1980.png","kind":"background","idea":"the 1980 postage stamp test","shot":"high-angle view down at a doctor's desk, 35mm lens feel, portrait 2:3.","place":"a 1980 doctor's clinic desk in the morning: \"a very strange test\". Warm, retro, nerdy. No one present.","hero":"a clear open space in the middle of a wooden desk with a green blotter where small objects will be placed, with a roll of postage stamps and a pair of scissors lying beside it (blank stamps with simple pictogram flowers, no numbers).","foreground":"a stack of folders and a brass desk lamp cropped at the top left, a coffee mug at the bottom right.","midground":"a typewriter, a rolodex, a framed diploma (blank), a retro telephone with a curly cord.","background":"wood-paneled wall, a window with venetian blinds and morning light, a plant.","dressing":"paper clips, a stapler, a pencil cup, a tidy desk, sticky notes (blank).","story":"a sticky note with a simple pictogram star, a half-solved crossword (no letters).","light":"warm golden morning light through the blinds from the right, colored shadows in teal.","palette":"1980 mustard, brown and teal, with one gold accent.","texture":"wood grain, paper, brass, felt blotter.","staging":"Keep the center clear for overlays and the band at 60-72% height calm."},{"file":"M08_garage_tuneup_night.png","kind":"background","idea":"a nightly tune-up (blood carries oxygen)","shot":"eye-level wide view into a cozy garage workshop at night, 28mm lens feel, horizon about 45% from the top, portrait 2:3.","place":"a friendly old garage at night where a car is getting its tune-up: \"a nightly tune-up\". Warm, busy, nobody there.","hero":"a round, cartoon-shaped vintage car with its hood open, up on a car lift, glowing warm from inside the engine, with sparkles of gold bubbles floating up from the engine.","foreground":"a rolling tool chest cropped at the bottom left with wrenches and an oil can.","midground":"a workbench with tools on a pegboard, a tire stack, a rolling creeper, a parts shelf, a little radio.","background":"garage doors with night-blue windows, a wall calendar (blank), a neon sign in the window with the exact words \"TUNE-UP\" (the only text in the image).","dressing":"a hanging shop light, oil stains, tools silhouettes on the pegboard outline, a coffee thermos.","story":"a rubber duck on the dashboard, a tiny plant growing on the workbench.","light":"warm orange from the shop lights, cool blue from the doors, gold sparkles glowing, colored shadows in blue.","palette":"warm orange and navy with one gold accent.","texture":"metal, rubber, grease, brushed steel, pegboard.","staging":"Keep the center clear for overlays and the band at 60-72% height calm."},{"file":"P01_stamp_ring_whole.png","kind":"prop","idea":"the stamp ring, intact","brief":"A strip of four connected postage stamps with perforated edges, bent into a ring (a closed loop) standing on its end, each stamp showing a simple pictogram flower, no text, no numbers."},{"file":"P02_stamp_ring_torn.png","kind":"prop","idea":"the stamp ring, torn","brief":"The same strip of four postage stamps with perforated edges as a ring, but now torn apart between the second and third stamp, the two pieces lying a little apart with ragged torn edges, each stamp showing a simple pictogram flower, no text, no numbers."}]};
 // explainer-scene.js: the GENERIC scene runner for "Why do we X?" explainers (Brian, Nov 26 2026: "make the system, replicate on any new chat").
 // It is not loaded directly. `node tools/make-scene.js <slug>` writes videos/<slug>/scene.js = `window.BEATS = <videos/<slug>/beats.json>;` + this file,
 // so the existing stage (plate-stage.html + plate-kit.js) runs it unchanged. Everything in update() is a pure function of t.

diff --git a/videos/morning-wood/audit-measured.md b/videos/morning-wood/audit-measured.md
@@ -13,7 +13,7 @@
 | visual | caption chunks (TEST) setting | ℹ INFO | captionChunk = 3 (0/1 = one word at a time) |
 | follow-through | notes file has a promise ledger, a causal chain and a written retell | ✅ PASS | notes.md |
 | facts | sources.md has at least 3 source links | ✅ PASS | 12 links |
-| post | cover.jpg and post.md exist | ⚠ WARN | no cover, no post.md |
+| post | cover.jpg and post.md exist | ⚠ WARN | no cover, post.md ok |
 | audio | sound effects file built | ✅ PASS | sfx.wav present (not listened to) |
 
 This measures; it does not judge comprehension. Brian's ear and the follow-through notes do that.
